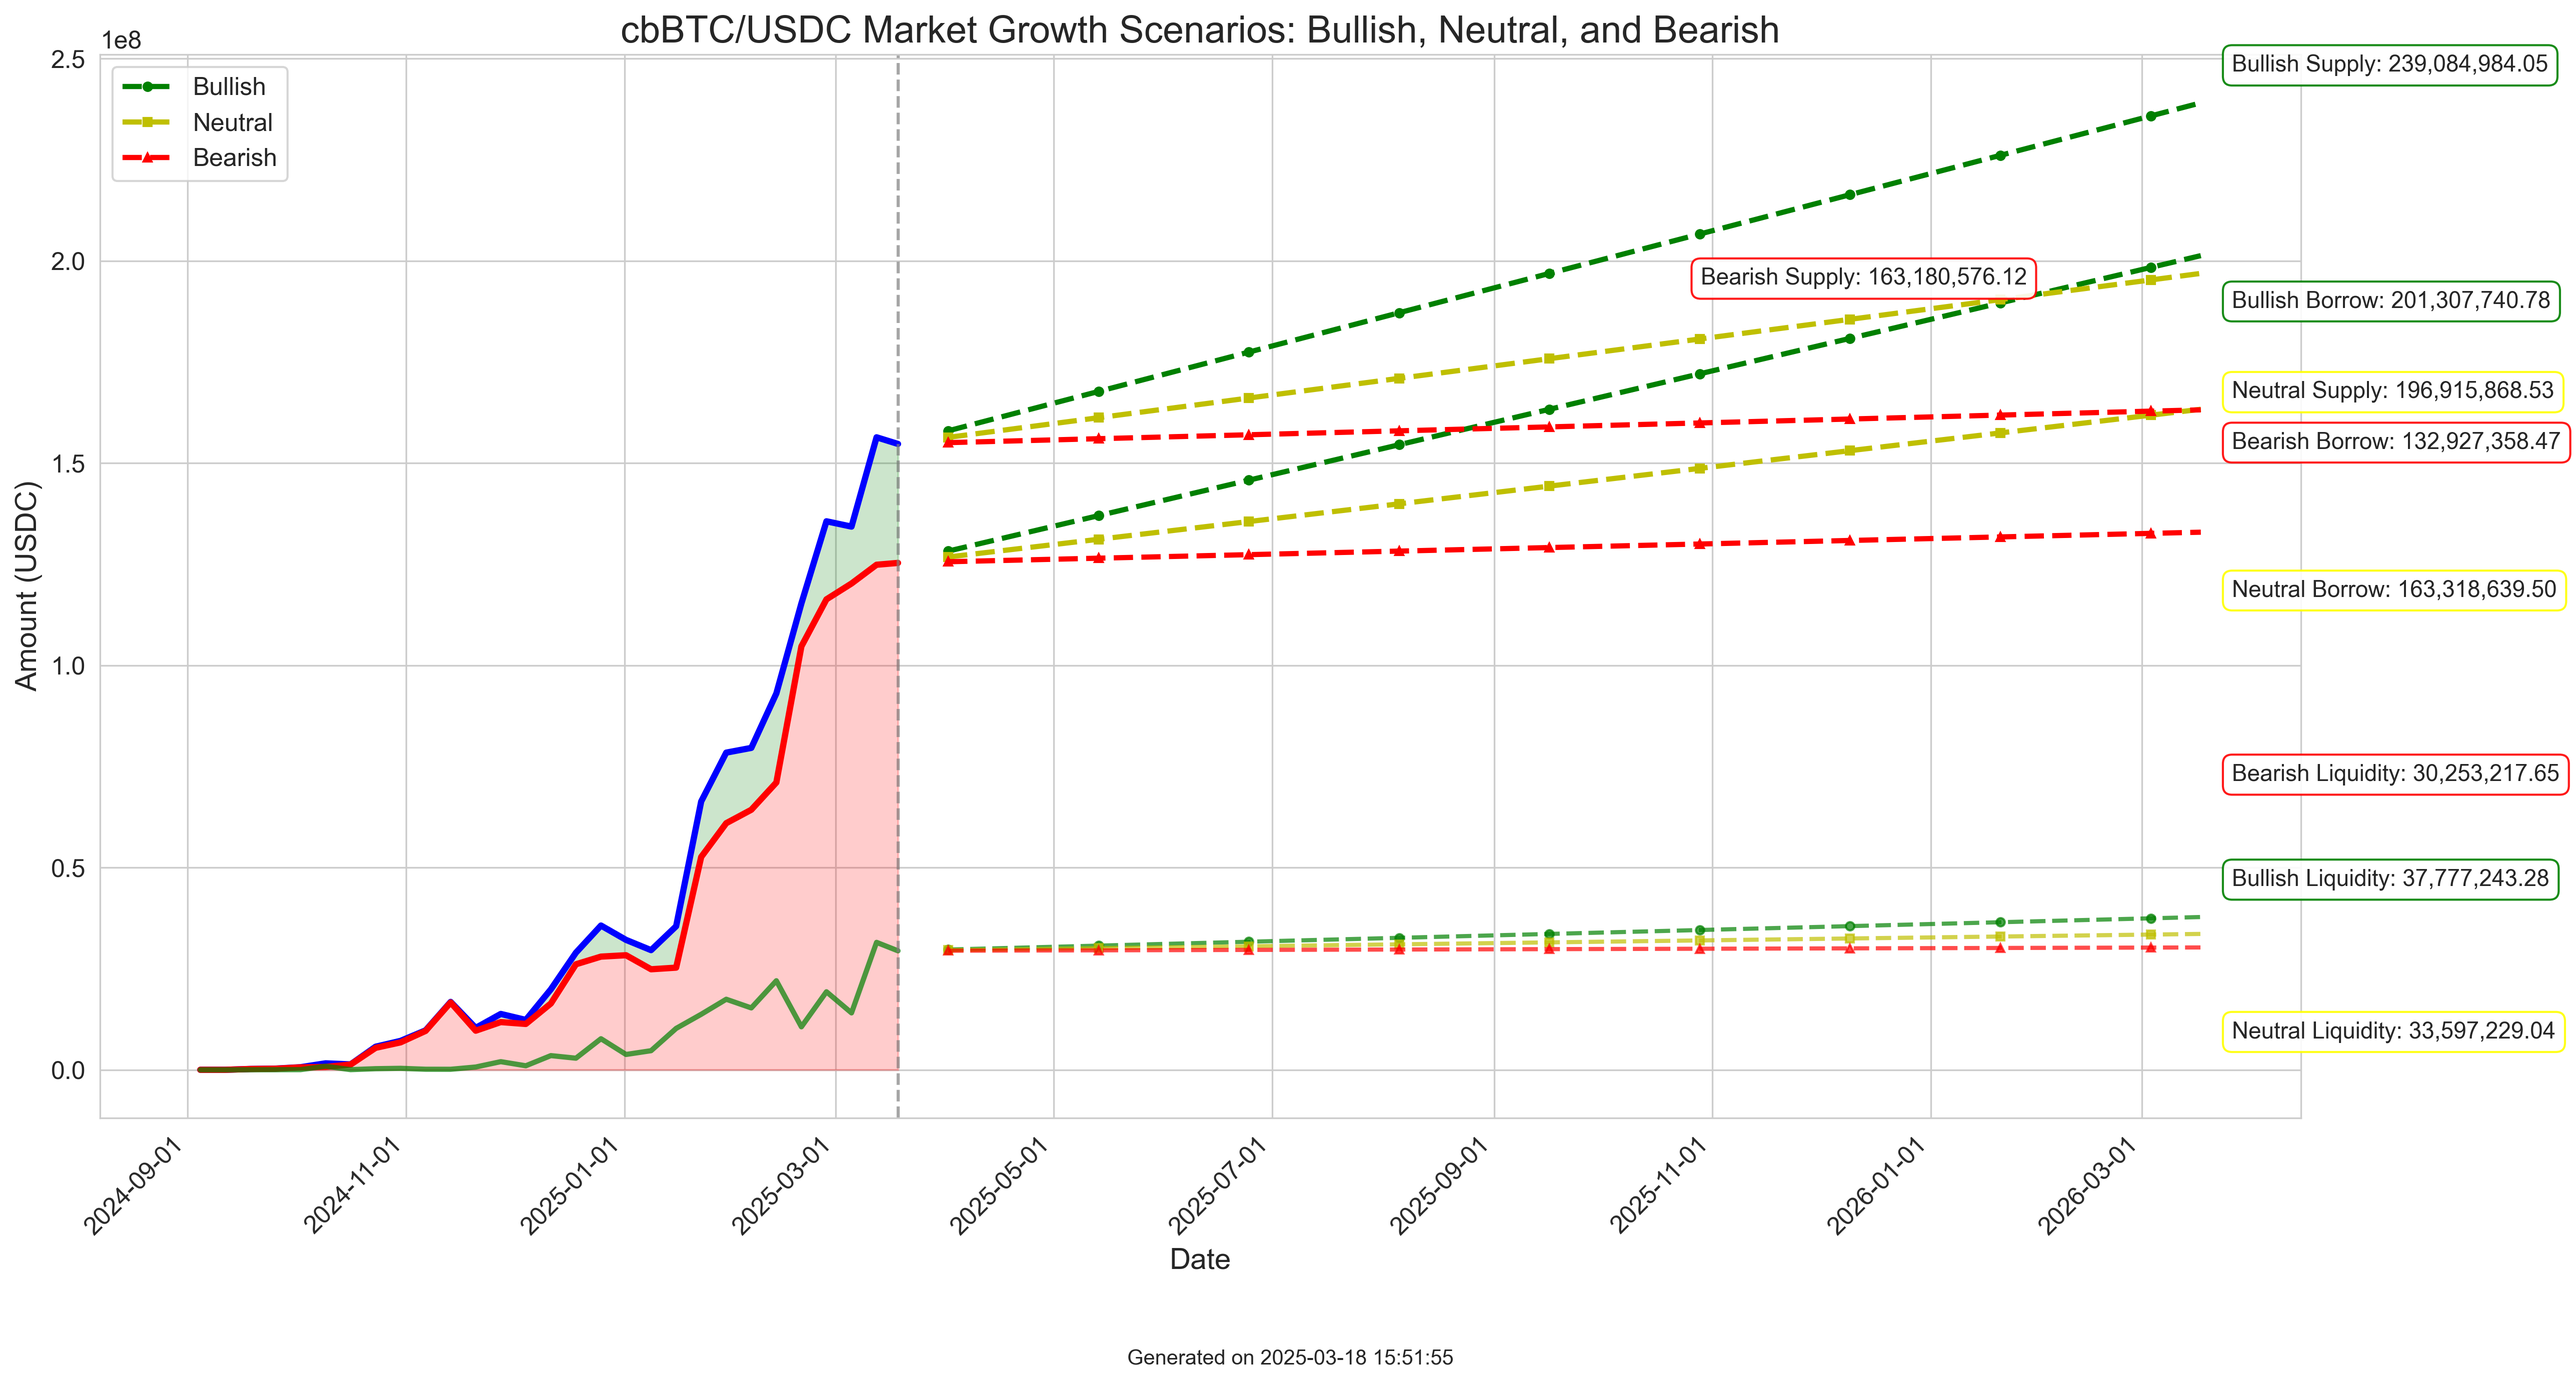
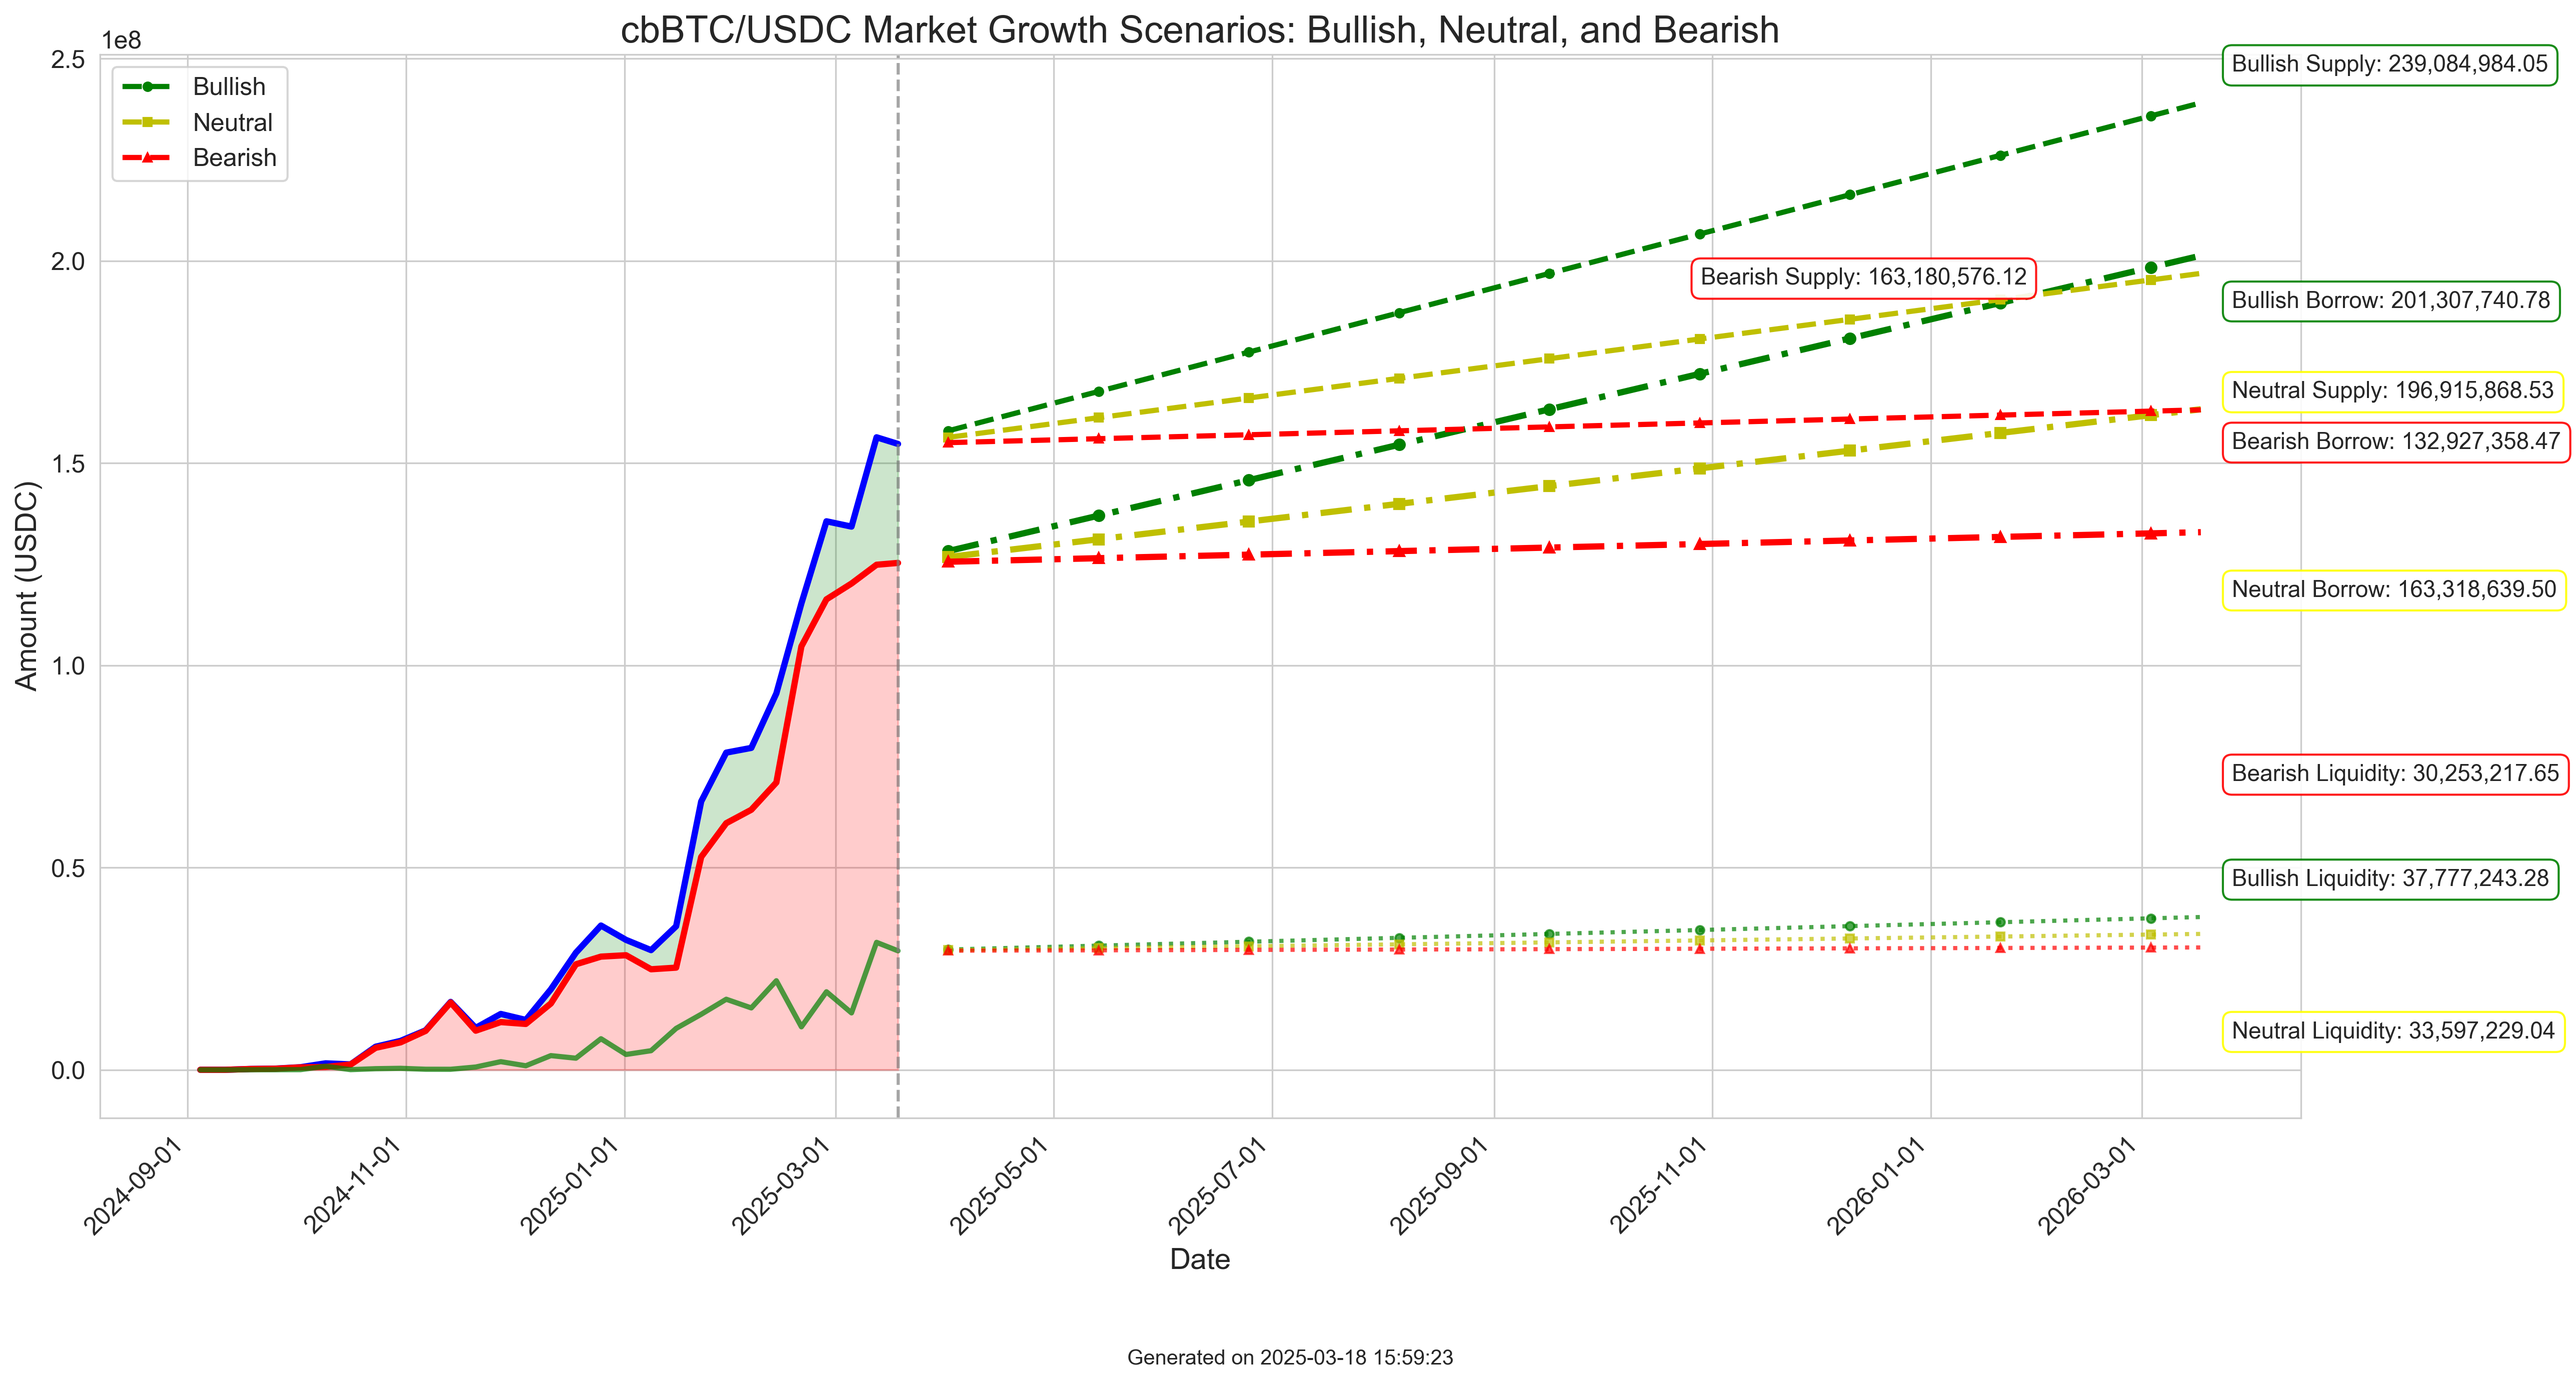
Added final line patterns

Changed region(s): [[0.3727, 0.3728, 0.497, 0.4039]]

diff --git a/analysis/track_morpho_market_history.py b/analysis/track_morpho_market_history.py
@@ -446,10 +446,11 @@ def main():
         ax.axvline(x=last_date, color='gray', linestyle='--', alpha=0.7)
         
         # ---- Bullish Projection (Green) ----
-        # Plot projected data with dotted lines - use green for the bullish projection
+        # Plot projected data with different line styles - green for bullish projection
         ax.plot(proj_df['date'], proj_df['totalSupplyAssets_formatted'], 'g--', linewidth=2.5, marker='o', markersize=4, markevery=3, label='Bullish')
-        ax.plot(proj_df['date'], proj_df['totalBorrowAssets_formatted'], 'g--', linewidth=2.5, marker='o', markersize=4, markevery=3, label='_nolegend_')
-        ax.plot(proj_df['date'], proj_df['availableLiquidity_formatted'], 'g--', linewidth=2, marker='o', markersize=4, markevery=3, alpha=0.7, label='_nolegend_')
+        ax.plot(proj_df['date'], proj_df['totalBorrowAssets_formatted'], color='g', linewidth=3.0, marker='o', markersize=5, markevery=3, 
+                dashes=[5, 2, 1, 2], label='_nolegend_')  # Very distinctive pattern
+        ax.plot(proj_df['date'], proj_df['availableLiquidity_formatted'], 'g:', linewidth=2, marker='o', markersize=4, markevery=3, alpha=0.7, label='_nolegend_')
         
         # Add annotation for bullish projected end values
         proj_end = proj_df.iloc[-1]
@@ -491,10 +492,11 @@ def main():
         # Calculate derived metrics
         half_rate_df['availableLiquidity_formatted'] = half_rate_df['totalSupplyAssets_formatted'] - half_rate_df['totalBorrowAssets_formatted']
         
-        # Plot neutral projections with yellow dotted lines
+        # Plot neutral projections with yellow lines but distinct patterns
         ax.plot(half_rate_df['date'], half_rate_df['totalSupplyAssets_formatted'], 'y--', linewidth=2.5, marker='s', markersize=4, markevery=3, label='Neutral')
-        ax.plot(half_rate_df['date'], half_rate_df['totalBorrowAssets_formatted'], 'y--', linewidth=2.5, marker='s', markersize=4, markevery=3, label='_nolegend_')
-        ax.plot(half_rate_df['date'], half_rate_df['availableLiquidity_formatted'], 'y--', linewidth=2, marker='s', markersize=4, markevery=3, alpha=0.7, label='_nolegend_')
+        ax.plot(half_rate_df['date'], half_rate_df['totalBorrowAssets_formatted'], color='y', linewidth=3.0, marker='s', markersize=5, markevery=3, 
+                dashes=[5, 2, 1, 2], label='_nolegend_')  # Very distinctive pattern
+        ax.plot(half_rate_df['date'], half_rate_df['availableLiquidity_formatted'], 'y:', linewidth=2, marker='s', markersize=4, markevery=3, alpha=0.7, label='_nolegend_')
         
         # Add annotation for neutral projected end values
         half_rate_end = half_rate_df.iloc[-1]
@@ -536,10 +538,11 @@ def main():
         # Calculate derived metrics
         low_rate_df['availableLiquidity_formatted'] = low_rate_df['totalSupplyAssets_formatted'] - low_rate_df['totalBorrowAssets_formatted']
         
-        # Plot bearish projections with red dotted lines
+        # Plot bearish projections with red lines but distinct patterns
         ax.plot(low_rate_df['date'], low_rate_df['totalSupplyAssets_formatted'], 'r--', linewidth=2.5, marker='^', markersize=4, markevery=3, label='Bearish')
-        ax.plot(low_rate_df['date'], low_rate_df['totalBorrowAssets_formatted'], 'r--', linewidth=2.5, marker='^', markersize=4, markevery=3, label='_nolegend_')
-        ax.plot(low_rate_df['date'], low_rate_df['availableLiquidity_formatted'], 'r--', linewidth=2, marker='^', markersize=4, markevery=3, alpha=0.7, label='_nolegend_')
+        ax.plot(low_rate_df['date'], low_rate_df['totalBorrowAssets_formatted'], color='r', linewidth=3.0, marker='^', markersize=5, markevery=3, 
+                dashes=[5, 2, 1, 2], label='_nolegend_')  # Very distinctive pattern
+        ax.plot(low_rate_df['date'], low_rate_df['availableLiquidity_formatted'], 'r:', linewidth=2, marker='^', markersize=4, markevery=3, alpha=0.7, label='_nolegend_')
         
         # Add annotation for bearish projected end values
         low_rate_end = low_rate_df.iloc[-1]
